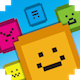
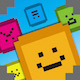
New images for gameOver results. Adjust score and level place holder positions for iPhone 4s .

diff --git a/Poli Fuse/GameViewController.swift b/Poli Fuse/GameViewController.swift
@@ -85,7 +85,7 @@ class GameViewController: UIViewController{// , ADBannerViewDelegate{
     }
     
     override func supportedInterfaceOrientations() -> Int {
-        return Int(UIInterfaceOrientationMask.AllButUpsideDown.toRaw())
+        return Int(UIInterfaceOrientationMask.AllButUpsideDown.rawValue)
     }
     
     override func viewWillDisappear(animated: Bool) {
@@ -108,6 +108,16 @@ class GameViewController: UIViewController{// , ADBannerViewDelegate{
         // Configure the view.
         let skView = view as SKView
         skView.multipleTouchEnabled = false
+        let screenSize: CGRect = UIScreen.mainScreen().bounds
+        let screenHeight = screenSize.height;
+        if (screenHeight == 480) {
+            let x = scorePlaceHolderInScoreResultPage.center.x
+            let y = scorePlaceHolderInScoreResultPage.center.y
+            scorePlaceHolderInScoreResultPage.center = CGPointMake(x, y - 12.8)
+            let x1 = levelPlaceHolderInScoreResultPage.center.x
+            let y1 = levelPlaceHolderInScoreResultPage.center.y
+            levelPlaceHolderInScoreResultPage.center = CGPointMake(x1, y1 - 9.5)
+        }
         hideScoreResultPage()
         rotateLevelAndScorePlaceHolder()
         
@@ -128,7 +138,7 @@ class GameViewController: UIViewController{// , ADBannerViewDelegate{
         if (gameIsStarted == false) {
             scene.userInteractionEnabled = false
             middleUIViewPanel.hidden = false;
-            middleUIViewPanel.animationImages = [UIImage(named: "Ready"), UIImage(named: "Go")]
+            middleUIViewPanel.animationImages = [UIImage(named: "Ready")!, UIImage(named: "Go")!]
             middleUIViewPanel.animationDuration = 3
             middleUIViewPanel.animationRepeatCount = 1
             middleUIViewPanel.startAnimating()
@@ -355,24 +365,23 @@ class GameViewController: UIViewController{// , ADBannerViewDelegate{
         }
         
         getGameSound("hurray").play()
+
+//        highScoreImage.hidden = false
+//        
+//        highScore.text = String(totalScore)
+//        highScore.hidden = false
+//        
+//        timerLabel.hidden = true
+//        exitButton.hidden = false
+//        scoreLabel.hidden = true
         
-        highScoreImage.animationImages = [UIImage(named: "Highscore"), UIImage(named: "Highscore-Highlighted")]
-        highScoreImage.animationDuration = 0.5
-        highScoreImage.startAnimating()
-        highScoreImage.hidden = false
-        
-        highScore.text = String(totalScore)
-        highScore.hidden = false
-        
-        timerLabel.hidden = true
-        exitButton.hidden = false
-        scoreLabel.hidden = true
-        
-        middleUIViewPanel.image = UIImage(named: "GameOver")
-        middleUIViewPanel.hidden = false
+//        middleUIViewPanel.image = UIImage(named: "GameOver")
+//        middleUIViewPanel.hidden = false
         //scene.userInteractionEnabled = false
-        menuButton.userInteractionEnabled = false
-        
+        initScoreResultPageImage("GameOver_final")
+        scorePlaceHolderInScoreResultPage.text = String(totalScore)
+        scorePlaceHolderInScoreResultPage.hidden = false
+        scoreResultPage.hidden = false
         scene.animateGameSceneOut() {
             //self.tapGestureRecognizer = UITapGestureRecognizer(target: self, action: "beginGame")
             //self.view.addGestureRecognizer(self.tapGestureRecognizer)
@@ -392,10 +401,9 @@ class GameViewController: UIViewController{// , ADBannerViewDelegate{
     
     func showLevelUp(completion: () -> ()) {
         GameViewController.setIfPause(true)
-        middleUIViewPanel.animationImages = [UIImage(named: "LevelComplete"), UIImage(named: "LevelComplete-Highlighted")]
-        middleUIViewPanel.animationDuration = 0.5
+        let image = UIImage.animatedImageWithImages([UIImage(named: "LevelComplete")!, UIImage(named: "LevelComplete-Highlighted")!], duration: 0.5)
+        middleUIViewPanel.image = image
         middleUIViewPanel.hidden = false
-        middleUIViewPanel.startAnimating()
         scene.userInteractionEnabled = false
         //shuffleButton.hidden = true
         
@@ -416,7 +424,6 @@ class GameViewController: UIViewController{// , ADBannerViewDelegate{
         
         highScore.text = String(totalScore)
         highScore.hidden = false
-
         timerLabel.hidden = true
 //        exitButton.hidden = false
         scoreLabel.hidden = true
@@ -429,9 +436,11 @@ class GameViewController: UIViewController{// , ADBannerViewDelegate{
         scene.animateGameSceneOut() {
             //self.tapGestureRecognizer = UITapGestureRecognizer(target: self, action: "beginGame")
             //self.view.addGestureRecognizer(self.tapGestureRecognizer)
-            self.showScoreResultPage()
-            self.initScoreResultPageImage()
         }
+        let numberOfFile = (self.currentLevel - self.currentLevel%4)/4
+        let fileName = NSString(format: "GameOver_%ld", numberOfFile)
+        self.showScoreResultPage()
+        self.initScoreResultPageImage(fileName)
         updateLabels()
     }
     
@@ -480,9 +489,8 @@ class GameViewController: UIViewController{// , ADBannerViewDelegate{
     func showPauseMenu() {
         resumeButton.hidden = false
         resumeButton.userInteractionEnabled = true
-        resumeButton.animationImages = [UIImage(named: "Resume"), UIImage(named: "Resume-Highlighted")]
-        resumeButton.animationDuration = 0.7
-        resumeButton.startAnimating()
+        let image = UIImage.animatedImageWithImages([UIImage(named: "Resume")!, UIImage(named: "Resume-Highlighted")!], duration: 0.7)
+        resumeButton.image = image
         resumeButton.addGestureRecognizer(UITapGestureRecognizer(target: self, action: "resumeGame"))
         
         exitButton.hidden = false
@@ -594,12 +602,14 @@ class GameViewController: UIViewController{// , ADBannerViewDelegate{
     }
     
     private func rotateLevelAndScorePlaceHolder() {
-        scorePlaceHolderInScoreResultPage.transform = CGAffineTransformMakeRotation(-0.5)
-        levelPlaceHolderInScoreResultPage.transform = CGAffineTransformMakeRotation(-0.5)
+        scorePlaceHolderInScoreResultPage.transform = CGAffineTransformMakeRotation(-0.33)
+        levelPlaceHolderInScoreResultPage.transform = CGAffineTransformMakeRotation(-0.33)
     }
     
     func showScoreResultPage(){
+        scorePlaceHolderInScoreResultPage.text = String(totalScore)
         scorePlaceHolderInScoreResultPage.hidden = false
+        levelPlaceHolderInScoreResultPage.text = String(currentLevel + 1)
         levelPlaceHolderInScoreResultPage.hidden = false
         scoreResultPage.hidden = false
     }
@@ -610,8 +620,8 @@ class GameViewController: UIViewController{// , ADBannerViewDelegate{
         scoreResultPage.hidden = true
     }
     
-    func initScoreResultPageImage(){
-        scoreResultPage.image = UIImage(named: "Background")
+    func initScoreResultPageImage(fileName:String){
+        scoreResultPage.image = UIImage(named: fileName)
         scoreResultPage.userInteractionEnabled = true
         scoreResultPage.addGestureRecognizer(UITapGestureRecognizer(target: self, action: "terminateGameAndBackHomePage"))
     }

diff --git a/Poli Fuse/MainMenuViewController.swift b/Poli Fuse/MainMenuViewController.swift
@@ -88,9 +88,9 @@ class MenuViewController: UIViewController, GKGameCenterControllerDelegate {
     
     override func supportedInterfaceOrientations() -> Int {
         if UIDevice.currentDevice().userInterfaceIdiom == .Phone {
-            return Int(UIInterfaceOrientationMask.AllButUpsideDown.toRaw())
+            return Int(UIInterfaceOrientationMask.AllButUpsideDown.rawValue)
         } else {
-            return Int(UIInterfaceOrientationMask.All.toRaw())
+            return Int(UIInterfaceOrientationMask.All.rawValue)
         }
     }
     
@@ -160,9 +160,8 @@ class MenuViewController: UIViewController, GKGameCenterControllerDelegate {
     
     func logoAnimationController(){
         logoImage.userInteractionEnabled = false
-        logoImage.animationImages = [UIImage(named: "Logo1"), UIImage(named: "Logo2")]
-        logoImage.animationDuration = 1.0
-        logoImage.startAnimating()
+        let image = UIImage.animatedImageWithImages([UIImage(named: "Logo1")!, UIImage(named: "Logo2")!], duration: 1.0)
+        logoImage.image = image
     }
     
     func setButtonBackgroundImage(button: UIButton, image: UIImage, highlightImage : UIImage) -> UIButton {
@@ -219,10 +218,10 @@ class MenuViewController: UIViewController, GKGameCenterControllerDelegate {
     
     func initializePlayButton(button: UIButton) -> UIButton {
         button.hidden = false
-        return setButtonBackgroundImage(button, image: playButtonImage, highlightImage :playButtonImageHighlighted)
+        return setButtonBackgroundImage(button, image: playButtonImage!, highlightImage :playButtonImageHighlighted!)
     }
     func initializeResumeButton(button: UIButton) -> UIButton {
-        return setButtonBackgroundImage(button, image: resumeButtonImage, highlightImage :resumeButtonImageHighlighted)
+        return setButtonBackgroundImage(button, image: resumeButtonImage!, highlightImage :resumeButtonImageHighlighted!)
     }
     
     func initializeScoreButton(button: UIButton) -> UIButton {
@@ -231,7 +230,7 @@ class MenuViewController: UIViewController, GKGameCenterControllerDelegate {
         } else {
             button.hidden = false
         }
-        return setButtonBackgroundImage(button, image: scoreboardButtonImage, highlightImage :scoreboardButtonImageHighlighted)
+        return setButtonBackgroundImage(button, image: scoreboardButtonImage!, highlightImage :scoreboardButtonImageHighlighted!)
     }
     
 }

diff --git a/Poli Fuse/Poli.swift b/Poli Fuse/Poli.swift
@@ -20,16 +20,16 @@ enum PoliType: Int, Printable {
         "Red",
         "Green"
         ]
-        return spriteNames[toRaw() - 1]
+        return spriteNames[rawValue - 1]
     }
     
     var highlightedSpriteName: String {
     let highlightedSpriteNames = ["Orange-Highlighted", "Blue-Highlighted", "Yellow-Highlighted", "Red-Highlighted", "Green-Highlighted" ]
-        return highlightedSpriteNames[toRaw() - 1]
+        return highlightedSpriteNames[rawValue - 1]
     }
     
     static func random() -> PoliType {
-        return PoliType.fromRaw(Int(arc4random_uniform(5)) + 1)!
+        return PoliType(rawValue: Int(arc4random_uniform(5)) + 1)!
     }
     
     var description: String {

diff --git a/Poli Fuse/GameScene.swift b/Poli Fuse/GameScene.swift
@@ -48,7 +48,7 @@ class GameScene: SKScene {
         
         let layerPosition = CGPoint(
             x: -TileWidth * CGFloat(NumColumns) / 2,
-            y: -TileHeight * CGFloat(NumRows) / 1.8)
+            y: -TileHeight * CGFloat(NumRows) / 1.7)
         
         tilesLayer.position = layerPosition
         gameLayer.addChild(tilesLayer)
